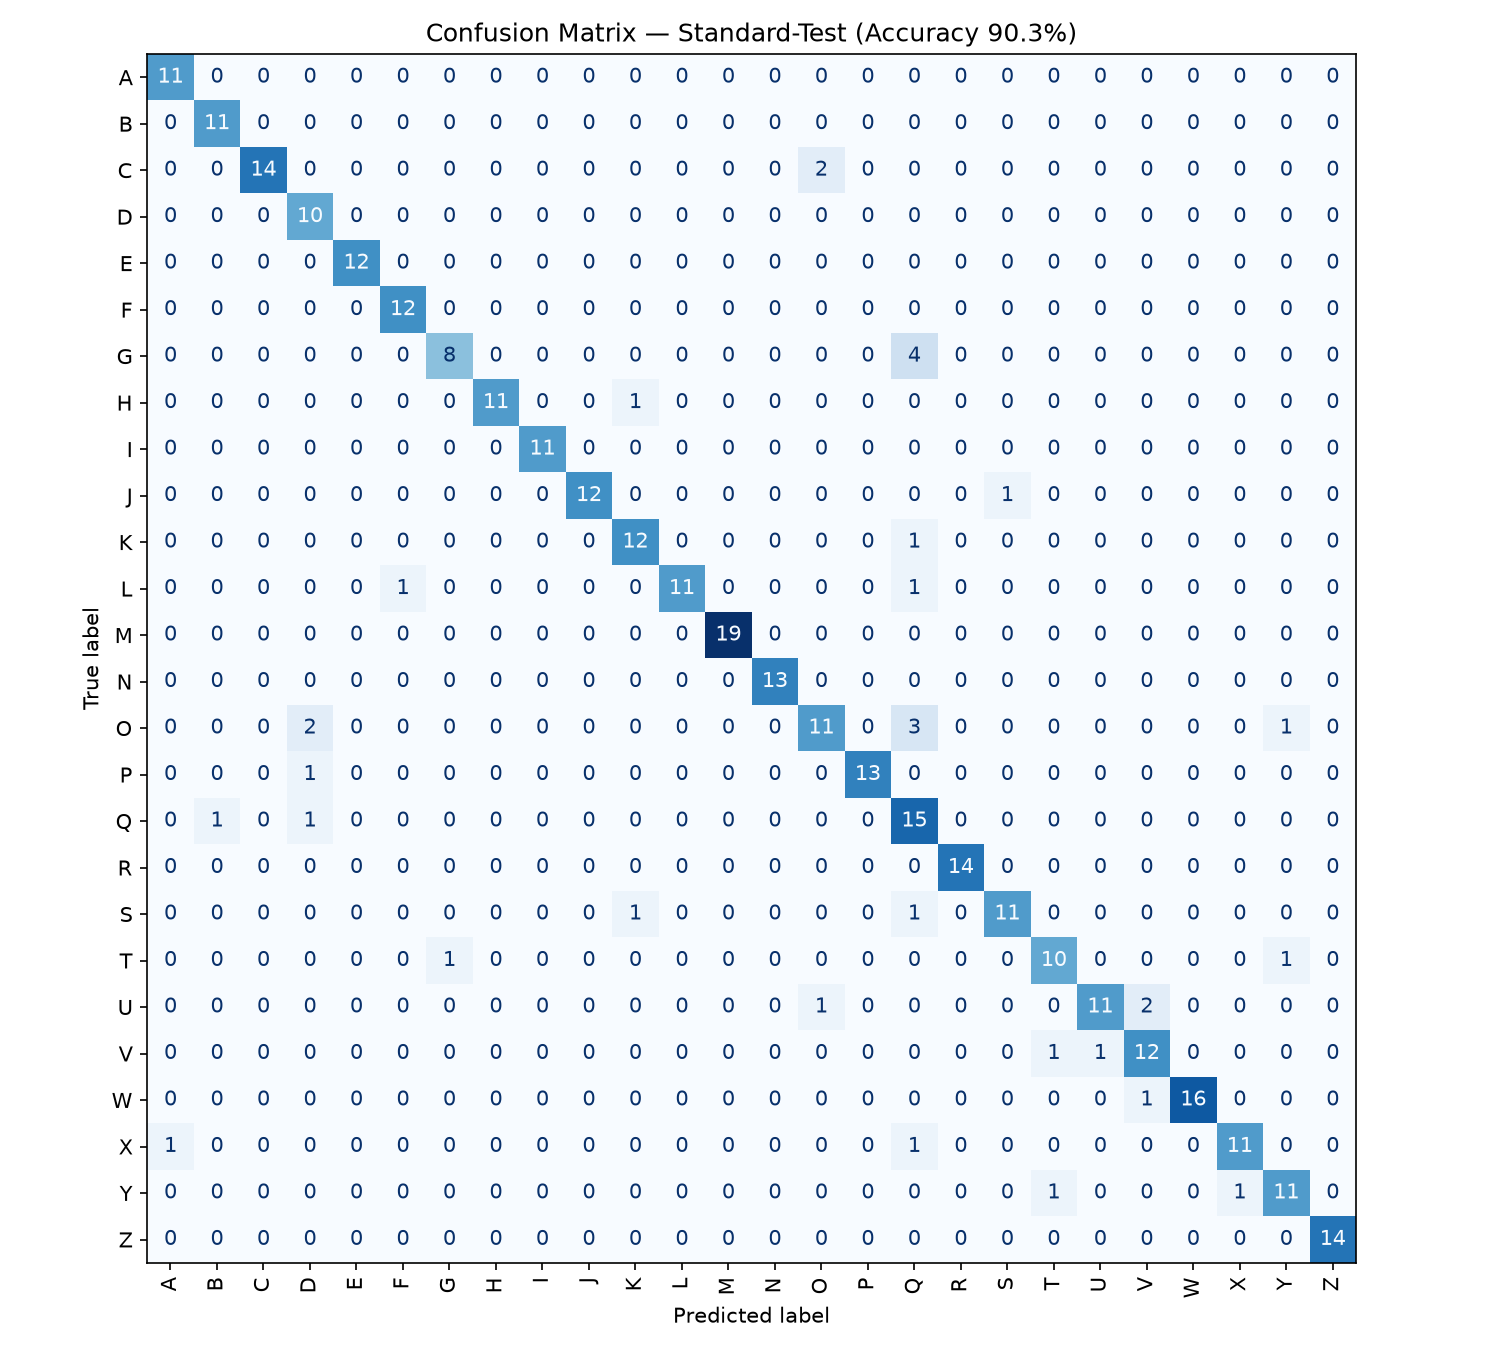
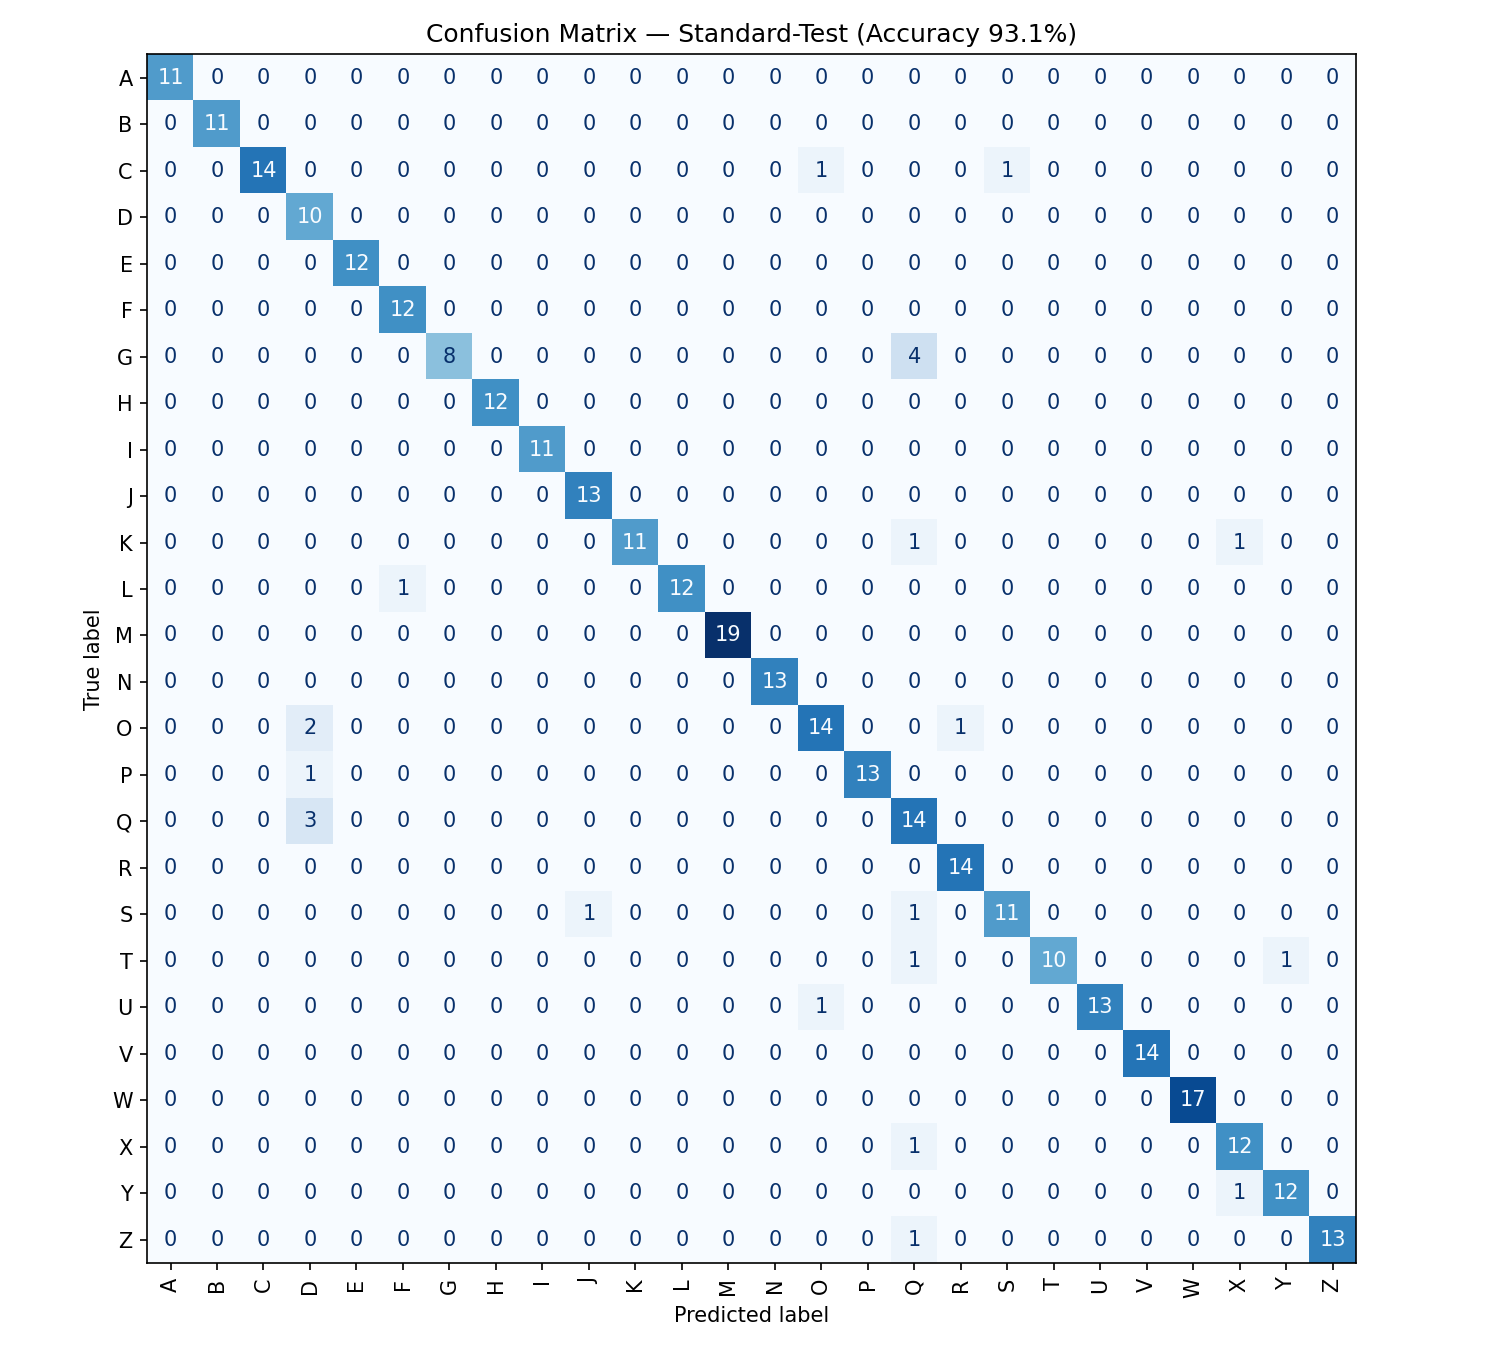
docs(#63): Ergebnisse auf n_components=10 neu gemessen (Standard 93%, Neue-Person 73%)
Die Ergebnisdoku nannte noch 8-Zustaende-Zahlen (~90%/~60%, nur held_out=yannik).
Neu reproduzierbar mit n_components=10 gemessen (2026-07-14, Commit 5866178):

- Standard-Accuracy: 93% (326/350 Test-Gesten, trainiert auf 1399)
- Neue-Person-Accuracy fuer ALLE 4 Personen als Hold-out:
  wayan 80%, arian 80%, yannik 70%, Azad 63% -> Mittel 73%, Min 63% (Azad)
- Bekannte-/unbekannte-Person/Live-E2E-Metrik klar getrennt (neuer Abschnitt c)
- Confusion Matrix neu erzeugt (26 A-Z-Klassen; Demo-Geste Dreieck ausgeklammert)
- Messlauf-Metadaten (Datum, Commit, Konfiguration) + reproduzierbarer Befehl
  fuer alle 4 Personen ergaenzt

Closes #63

diff --git a/docs/ergebnisse.md b/docs/ergebnisse.md
@@ -6,8 +6,14 @@ jeder Fachbegriff wird kurz erklärt.
 
 Alle Zahlen stammen aus der Funktion
 [`evaluate_classifier()`](../GestureRecognition/visualization.py) und wurden auf
-unserem eigenen Datensatz gemessen (26 Klassen A–Z, Aufnahmen von mehreren
-Personen).
+unserem eigenen Datensatz gemessen (26 Klassen A–Z, Aufnahmen von 4 Personen).
+
+> **Messlauf:** 2026-07-14, Commit `5866178`. Konfiguration: ein GaussianHMM pro
+> Klasse, `n_components=10`, `covariance_type="diag"`, `min_covar=0.03`,
+> `test_size=0.2`, `random_state=42`. Gemessen auf den **26 A–Z-Klassen**; die
+> Demo-Geste `recordings/Dreieck` ist ausgeklammert (nicht Teil des Alphabets) und
+> ändert die Zahlen praktisch nicht. Reproduktion: siehe
+> [Abschnitt 5](#5-ergebnisse-selbst-reproduzieren).
 
 ---
 
@@ -32,23 +38,44 @@ Hier trainieren und testen wir mit **denselben Personen**, nur mit
 unterschiedlichen Aufnahmen. Das Modell hat also von jeder Person schon Beispiele
 gesehen.
 
-> **Ergebnis: ~90 % richtig** (getestet auf 350 Test-Gesten, trainiert auf 1399).
+> **Ergebnis: 93 % richtig** (326 von 350 Test-Gesten, trainiert auf 1399;
+> `n_components=10`).
 
 Das ist die *optimistische* Zahl.
 
 ### b) Neue-Person-Accuracy — „was, wenn eine völlig fremde Person kommt?"
 
-Hier halten wir **eine ganze Person komplett aus dem Training heraus**
-(bei uns: „yannik") und testen das Modell nur an dieser Person. Das Modell hat
-diese Hand also **noch nie gesehen** – genau wie in der Prüfung, wenn der Prüfer
-live neue Gesten aufnimmt.
+Hier halten wir **eine ganze Person komplett aus dem Training heraus** und testen
+das Modell nur an dieser Person. Das Modell hat diese Hand also **noch nie
+gesehen** – genau wie in der Prüfung, wenn der Prüfer live neue Gesten aufnimmt.
+Wir machen das der Reihe nach für **alle vier Personen**:
 
-> **Ergebnis: ~60 % richtig** (getestet auf 434 Gesten dieser einen Person).
-> Je nachdem, welche Person man raushält, liegt der Wert zwischen ~58 % und ~77 %.
+| Zurückgehaltene Person | Getestete Gesten | Neue-Person-Accuracy |
+|---|---:|---:|
+| wayan  | ~440 | **80 %** |
+| arian  | ~440 | **80 %** |
+| yannik | ~440 | **70 %** |
+| Azad   | ~390 | **63 %** |
+| **Mittel über alle 4** | | **73 %** |
+
+> **Ergebnis: im Mittel 73 %** (Minimum 63 % bei Azad, Maximum 80 %).
 
 Das ist die *ehrliche* Zahl für die Prüfungssituation — **außer** die neue
 Person nimmt vorher ein paar eigene Aufnahmen auf und trainiert mit
 (`schnell_aufnahme.py` + `python train.py`). Dann gilt die Standard-Zahl.
+
+### c) Live-End-to-End — „läuft die ganze Kette mit der Webcam?"
+
+Die beiden Zahlen oben messen nur den **Klassifikator** auf gespeicherten
+Aufnahmen. Der Live-Modus hängt zusätzlich von Handerkennung und Segmentierung ab.
+Dieser Pfad ist getrennt abgesichert:
+
+- **Automatisch:** [`tests/test_end_to_end.py`](../tests/test_end_to_end.py) spielt
+  echte Aufnahmen durch die komplette Live-Pipeline (Detektor → Preprocessor → HMM)
+  und prüft die Erkennung — läuft in CI.
+- **Echte Webcam:** ein dokumentierter Durchlauf (neue Geste live aufnehmen →
+  trainieren → live erkennen), Protokoll in
+  [`webcam-e2e-protokoll.md`](webcam-e2e-protokoll.md).
 
 ### Warum ist die zweite Zahl so viel schlechter?
 
@@ -92,7 +119,7 @@ Aus der Matrix abgelesen (wahr → vom Modell geraten):
 | G → Q | 4× | Beide: runde Form mit „Schwänzchen" am Ende |
 | Q → D | 3× | Runde Grundform, ähnlicher Verlauf |
 | O → D | 2× | Beide fast geschlossene Rundung |
-| Z → Q, Y → X, X → Q | je 1× | Einzelfälle |
+| P → D, O → R, S → Q, L → F, S → J | je 1× | Einzelfälle |
 
 Es bleiben fast nur noch **runde Buchstaben** übrig, deren Bewegungsspur sich
 wirklich ähnelt (G/Q/O/D) – ein Zeichen, dass das Modell sinnvoll nach der
@@ -120,16 +147,27 @@ Die Zahlen und das Bild lassen sich jederzeit neu erzeugen. Im Projekt-`.venv`
 (dort ist `hmmlearn` installiert):
 
 ```python
-# evaluate_classifier trainiert das Modell frisch, testet es und
-# speichert die Confusion-Matrix als PNG-Bild ab.
+# evaluate_classifier trainiert das Modell frisch, testet es und speichert die
+# Confusion-Matrix als PNG. Wir messen die Neue-Person-Zahl fuer alle 4 Personen
+# und klammern die Demo-Geste recordings/Dreieck aus (nur die 26 A-Z-Klassen).
+import os, tempfile
+from pathlib import Path
 from GestureRecognition.visualization import evaluate_classifier
 
-ergebnis = evaluate_classifier(
-    output_dir="docs/source/_static",  # hier wird confusion_matrix.png gespeichert
-    held_out_person="yannik",          # diese Person wird fuer den 2. Test rausgehalten
-)
-print(ergebnis)
-# -> {'accuracy_standard': 0.90..., 'accuracy_new_person': 0.60..., 'held_out_person': 'yannik'}
+farm = Path(tempfile.mkdtemp()) / "recordings"
+farm.mkdir(parents=True)
+for d in sorted(Path("recordings").iterdir()):
+    if d.is_dir() and len(d.name) == 1:        # nur A..Z (schliesst 'Dreieck' aus)
+        os.symlink(d.resolve(), farm / d.name)
+
+for person in ["yannik", "wayan", "arian", "Azad"]:
+    r = evaluate_classifier(
+        recordings_dir=farm,
+        output_dir="docs/source/_static",     # hier wird confusion_matrix.png gespeichert
+        held_out_person=person,                # diese Person wird komplett rausgehalten
+    )
+    print(person, round(r["accuracy_new_person"], 3), round(r["accuracy_standard"], 3))
+# yannik 0.700 0.931 | wayan 0.795 0.931 | arian 0.795 0.931 | Azad 0.625 0.931
 ```
 
 Die drei Demo-GIFs im README entstehen übrigens genauso reproduzierbar:
@@ -146,11 +184,12 @@ python demo_gif.py            # nutzt data/hmm.pkl, schreibt images/demo_*.gif
 
 ## 6. Kurzfazit
 
-- Bekannte Personen werden zuverlässig erkannt (**~90 %**, 13 von 26
+- Bekannte Personen werden zuverlässig erkannt (**93 %**, 13 von 26
   Buchstaben sogar fehlerfrei).
-- Eine völlig neue Person ist deutlich schwerer (**~60 %**) – das ist die
-  ehrliche Erwartung, wenn jemand ohne eigene Trainingsdaten loslegt. Mit ein
-  paar eigenen Aufnahmen + `python train.py` gilt die 90-%-Zahl.
+- Eine völlig neue Person ist deutlich schwerer (**im Mittel 73 %**, je nach
+  Person 63–80 %) – das ist die ehrliche Erwartung, wenn jemand ohne eigene
+  Trainingsdaten loslegt. Mit ein paar eigenen Aufnahmen + `python train.py` gilt
+  die 93-%-Zahl.
 - Verwechselt werden fast nur noch **runde Buchstaben** (G/Q/O/D) – das Modell
   arbeitet also plausibel.
 - Größte Hebel waren: **Resampling auf feste Gestenlänge**, **min_covar**

diff --git a/README.md b/README.md
@@ -385,15 +385,18 @@ je 15+ Takes pro Buchstabe und Person):
 
 | Test | Bedeutung | Accuracy |
 |---|---|---|
-| **Standard** | bekannte Personen, neue Aufnahmen | **~90 %** |
-| **Neue Person** | eine Person komplett aus dem Training rausgehalten | **~60 %** |
+| **Standard** | bekannte Personen, neue Aufnahmen | **93 %** |
+| **Neue Person** | eine Person komplett aus dem Training rausgehalten | **⌀ 73 %** |
+
+*(Messlauf 2026-07-14, `n_components=10`, Neue-Person gemittelt über alle 4
+Personen als Hold-out. Pro-Person-Tabelle + Reproduktion: [docs/ergebnisse.md](docs/ergebnisse.md).)*
 
 Die zweite Zahl ist die ehrliche Erwartung für eine **völlig neue Person**,
-deren Aufnahmen das Modell nie gesehen hat (je nach Person 58–77 %). Nimmt
+deren Aufnahmen das Modell nie gesehen hat (je nach Person 63–80 %). Nimmt
 die neue Person dagegen erst ein paar eigene Aufnahmen auf und trainiert
 mit (`schnell_aufnahme.py` + `python train.py`), gilt die erste Zahl.
 
-Der große Sprung von früher ~79 %/36 % auf ~90 %/60 % kam durch drei Dinge:
+Der große Sprung von früher ~79 %/36 % auf **~93 %/73 %** kam durch drei Dinge:
 Resampling auf feste Gestenlänge, `min_covar` gegen den HMM-Kollaps und
 deutlich mehr Trainingsdaten (vier Personen statt einer) — Details in
 [docs/design-entscheidungen.md](docs/design-entscheidungen.md).
@@ -457,9 +460,10 @@ dokumentiert: **[docs/teambeitraege.md](docs/teambeitraege.md)**.
 
 Was das System (noch) nicht gut kann — und was man daraus machen könnte:
 
-- **Neue Personen:** ~60 % Accuracy ohne eigene Trainingsdaten. Jede Person
-  malt anders; mit ein paar eigenen Aufnahmen (`schnell_aufnahme.py` +
-  `train.py`) steigt die Erkennung auf ~90 %. *Erweiterung:* mehr Personen
+- **Neue Personen:** im Mittel ~73 % Accuracy ohne eigene Trainingsdaten (je nach
+  Person 63–80 %). Jede Person malt anders; mit ein paar eigenen Aufnahmen
+  (`schnell_aufnahme.py` + `train.py`) steigt die Erkennung auf ~93 %.
+  *Erweiterung:* mehr Personen
   im Trainingsdatensatz.
 - **Ähnliche Bewegungen:** Buchstaben, deren Spur fast gleich aussieht
   (z. B. V/W, P/F), bleiben die häufigsten Verwechslungen. *Erweiterung:*
